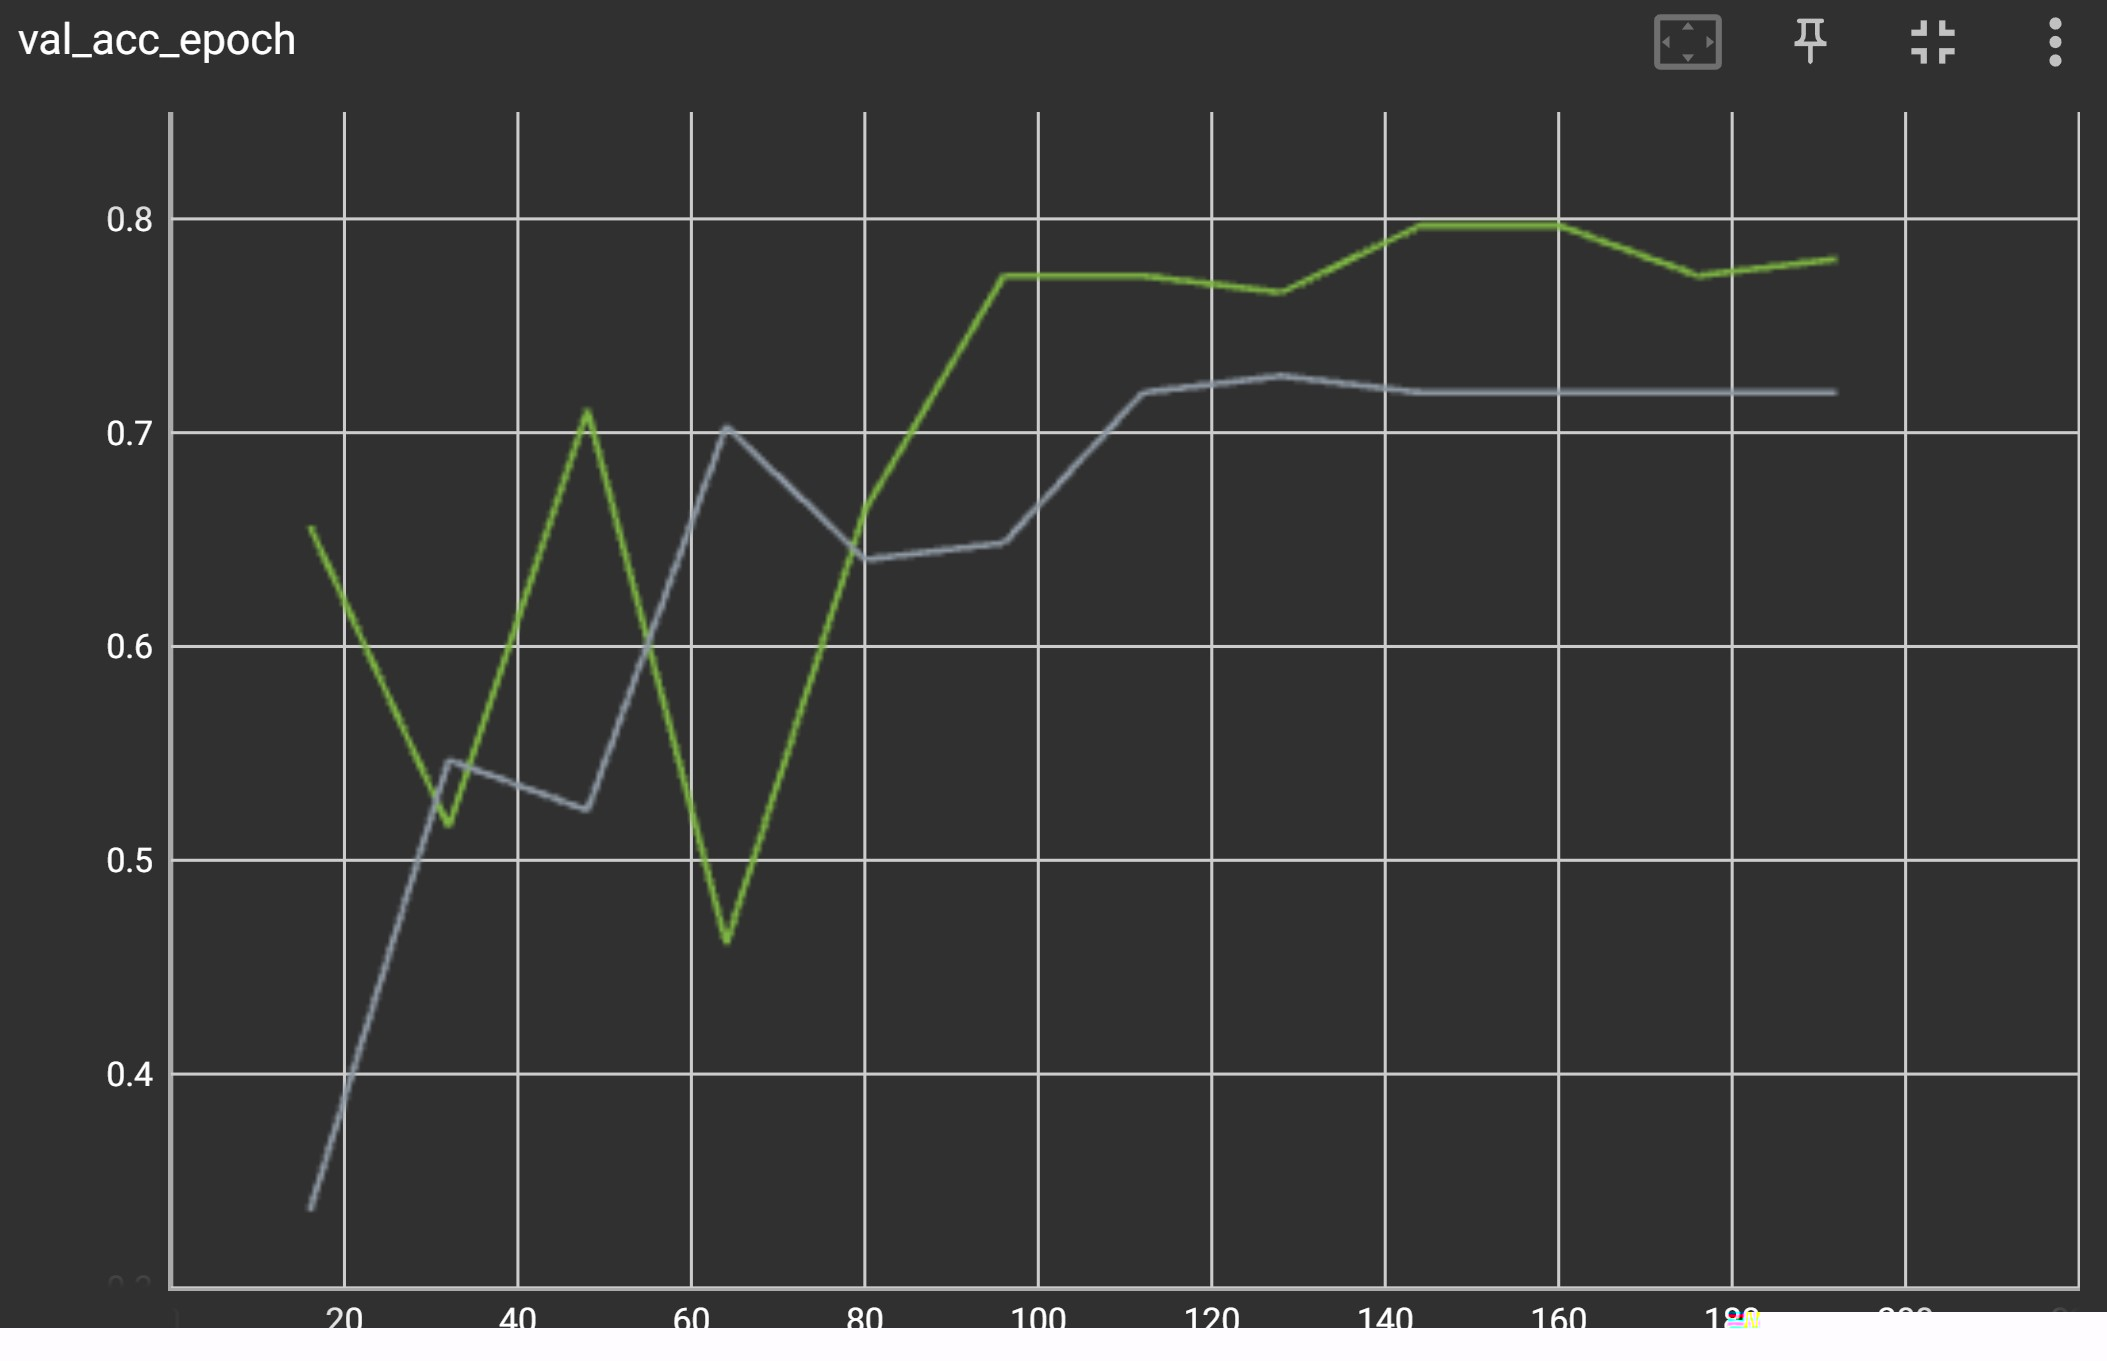
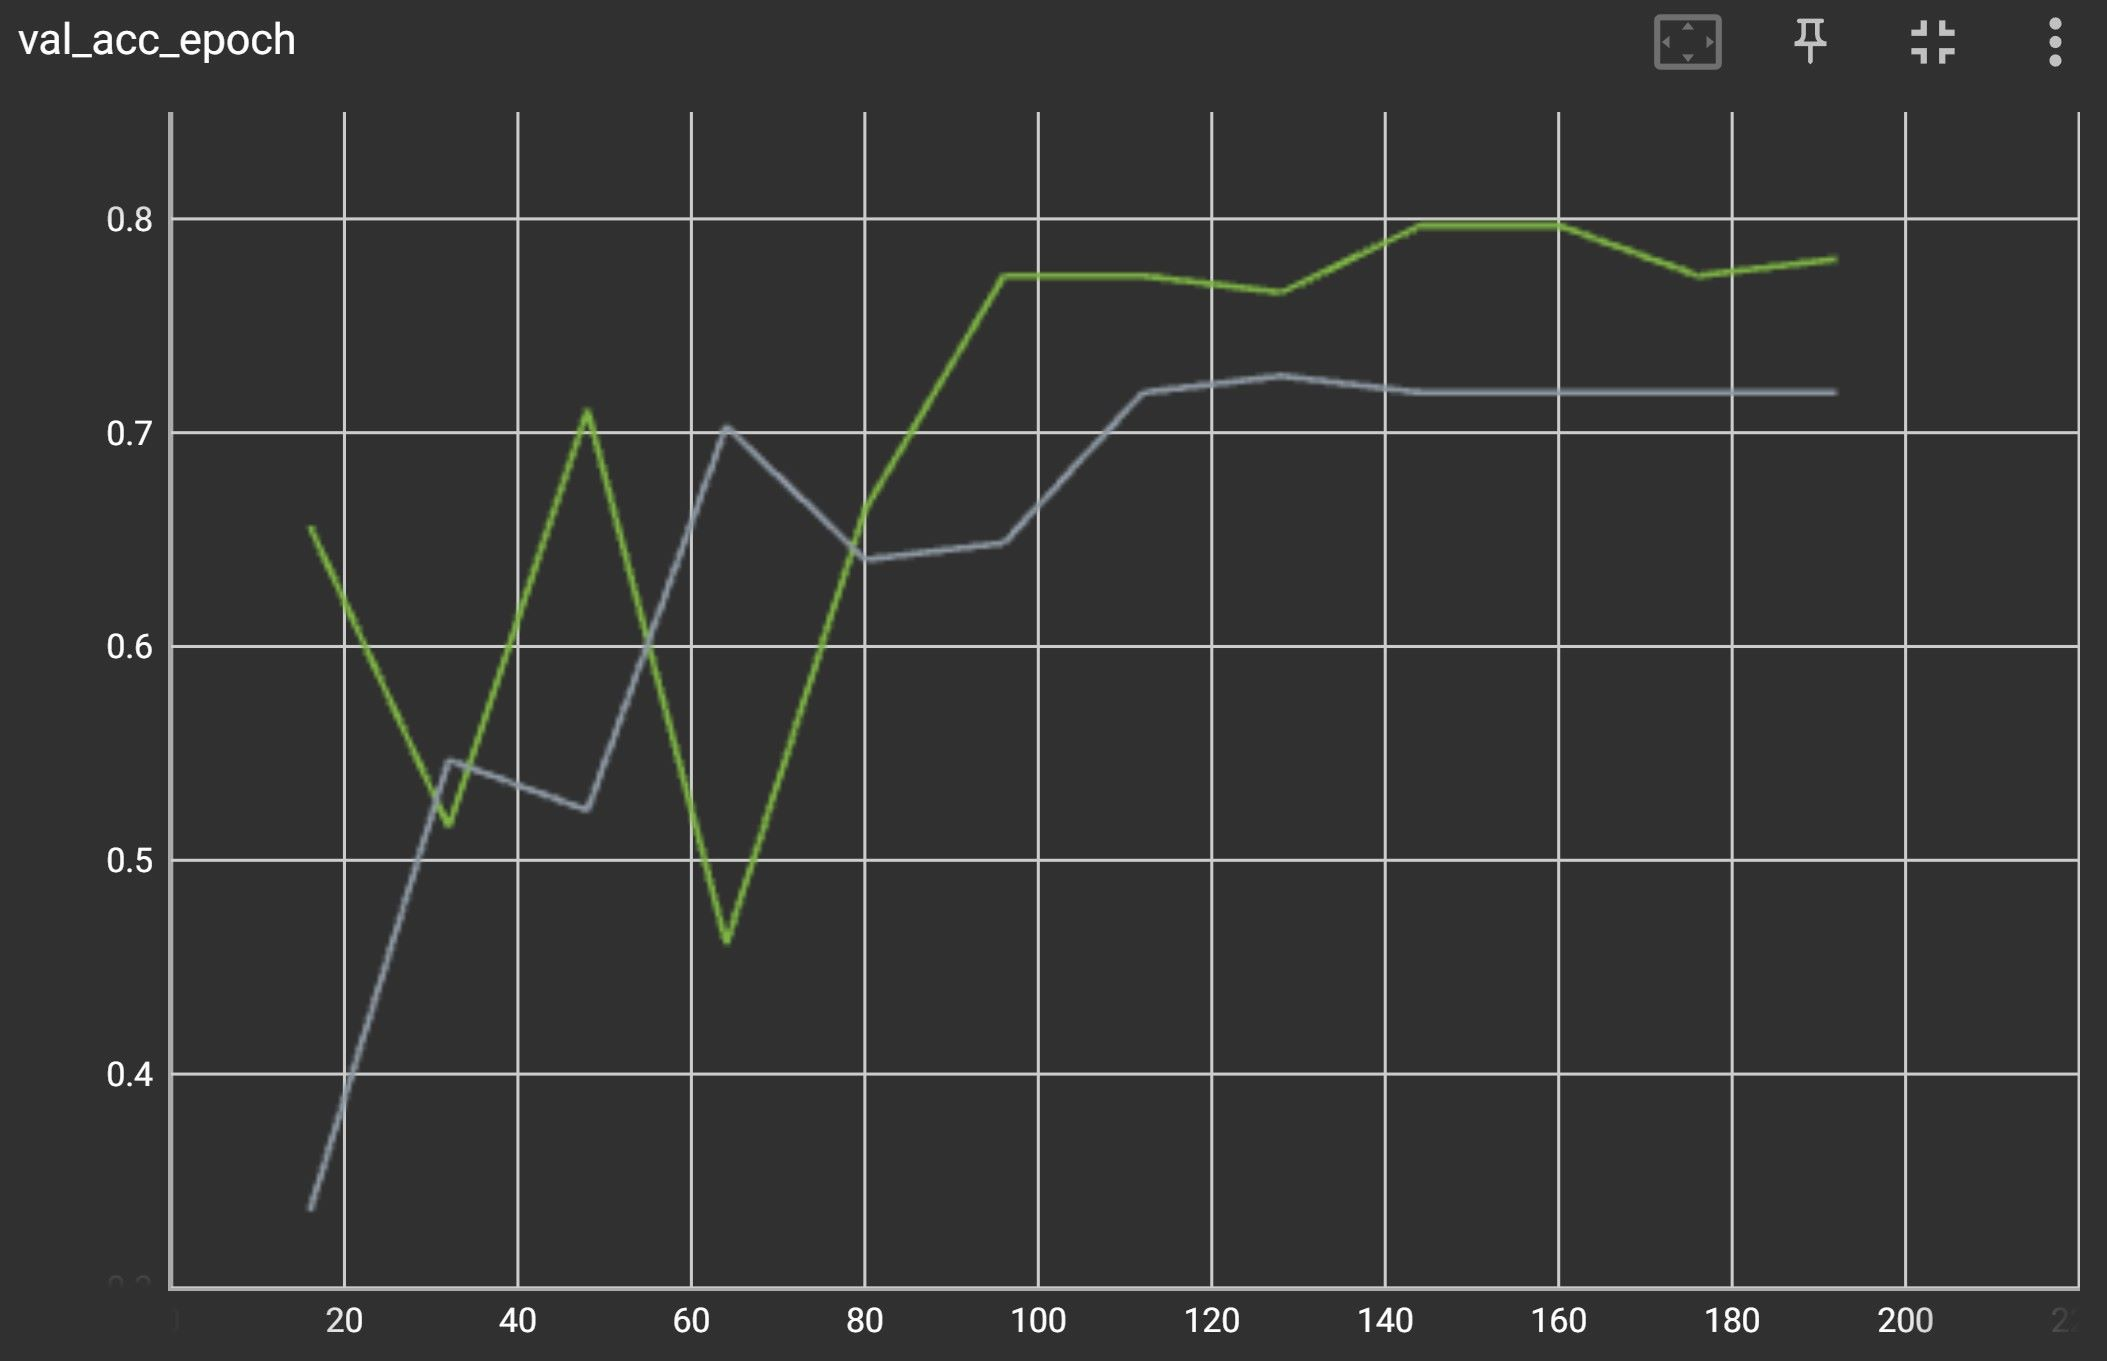
reduce jpg size

Changed region(s): [[0.0, 0.9566, 1.0, 1.0]]

diff --git a/docs/posts/simple_conv/index.html b/docs/posts/simple_conv/index.html
@@ -226,7 +226,7 @@ pre {
 <p>This is code I originally wrote for an assignment in my deep learning class. In order to post it on my public facing portfolio I’ve made several alterations and have changed the data set. The new data set I’m using is the “beans” data set from Hugging Face. This data set contains images of bean plant leaves with either no disease, Bean Rust, or Angular Leaf Spot. The leaf below has Bean Rust, identified by the small brown spots.</p>
 <div class="quarto-figure quarto-figure-center">
 <figure class="figure">
-<p><img src="bean_rust_test.1.jpg" class="img-fluid figure-img" width="244"></p>
+<p><img src="bean_rust_test.jpg" class="img-fluid figure-img" width="244"></p>
 </figure>
 </div>
 </section>
@@ -907,7 +907,7 @@ window.document.addEventListener("DOMContentLoaded", function (event) {
 <span id="cb5-33"><a href="#cb5-33" aria-hidden="true" tabindex="-1"></a></span>
 <span id="cb5-34"><a href="#cb5-34" aria-hidden="true" tabindex="-1"></a>This is code I originally wrote for an assignment in my deep learning class. In order to post it on my public facing portfolio I've made several alterations and have changed the data set. The new data set I'm using is the "beans" data set from Hugging Face. This data set contains images of bean plant leaves with either no disease, Bean Rust, or Angular Leaf Spot. The leaf below has Bean Rust, identified by the small brown spots.</span>
 <span id="cb5-35"><a href="#cb5-35" aria-hidden="true" tabindex="-1"></a></span>
-<span id="cb5-36"><a href="#cb5-36" aria-hidden="true" tabindex="-1"></a><span class="al">![](bean_rust_test.1.jpg)</span>{fig-align="center" width="244"}</span>
+<span id="cb5-36"><a href="#cb5-36" aria-hidden="true" tabindex="-1"></a><span class="al">![](bean_rust_test.jpg)</span>{fig-align="center" width="244"}</span>
 <span id="cb5-37"><a href="#cb5-37" aria-hidden="true" tabindex="-1"></a></span>
 <span id="cb5-38"><a href="#cb5-38" aria-hidden="true" tabindex="-1"></a><span class="fu">## Code</span></span>
 <span id="cb5-39"><a href="#cb5-39" aria-hidden="true" tabindex="-1"></a></span>

diff --git a/docs/projects.html b/docs/projects.html
@@ -173,7 +173,7 @@ ul.task-list li input[type="checkbox"] {
 
 <div class="quarto-listing quarto-listing-container-default" id="listing-listing">
 <div class="list quarto-listing-default">
-<div class="quarto-post image-right" data-index="0" data-categories="Python,Deep learning" data-listing-date-sort="1688101200000" data-listing-file-modified-sort="1688172183783" data-listing-date-modified-sort="NaN" data-listing-reading-time-sort="16">
+<div class="quarto-post image-right" data-index="0" data-categories="Python,Deep learning" data-listing-date-sort="1688101200000" data-listing-file-modified-sort="1688175172534" data-listing-date-modified-sort="NaN" data-listing-reading-time-sort="16">
 <div class="thumbnail">
 <p><a href="./posts/simple_conv/index.html"> <img src="./posts/simple_conv/beans.jpg" class="thumbnail-image"> </a></p>
 </div>
